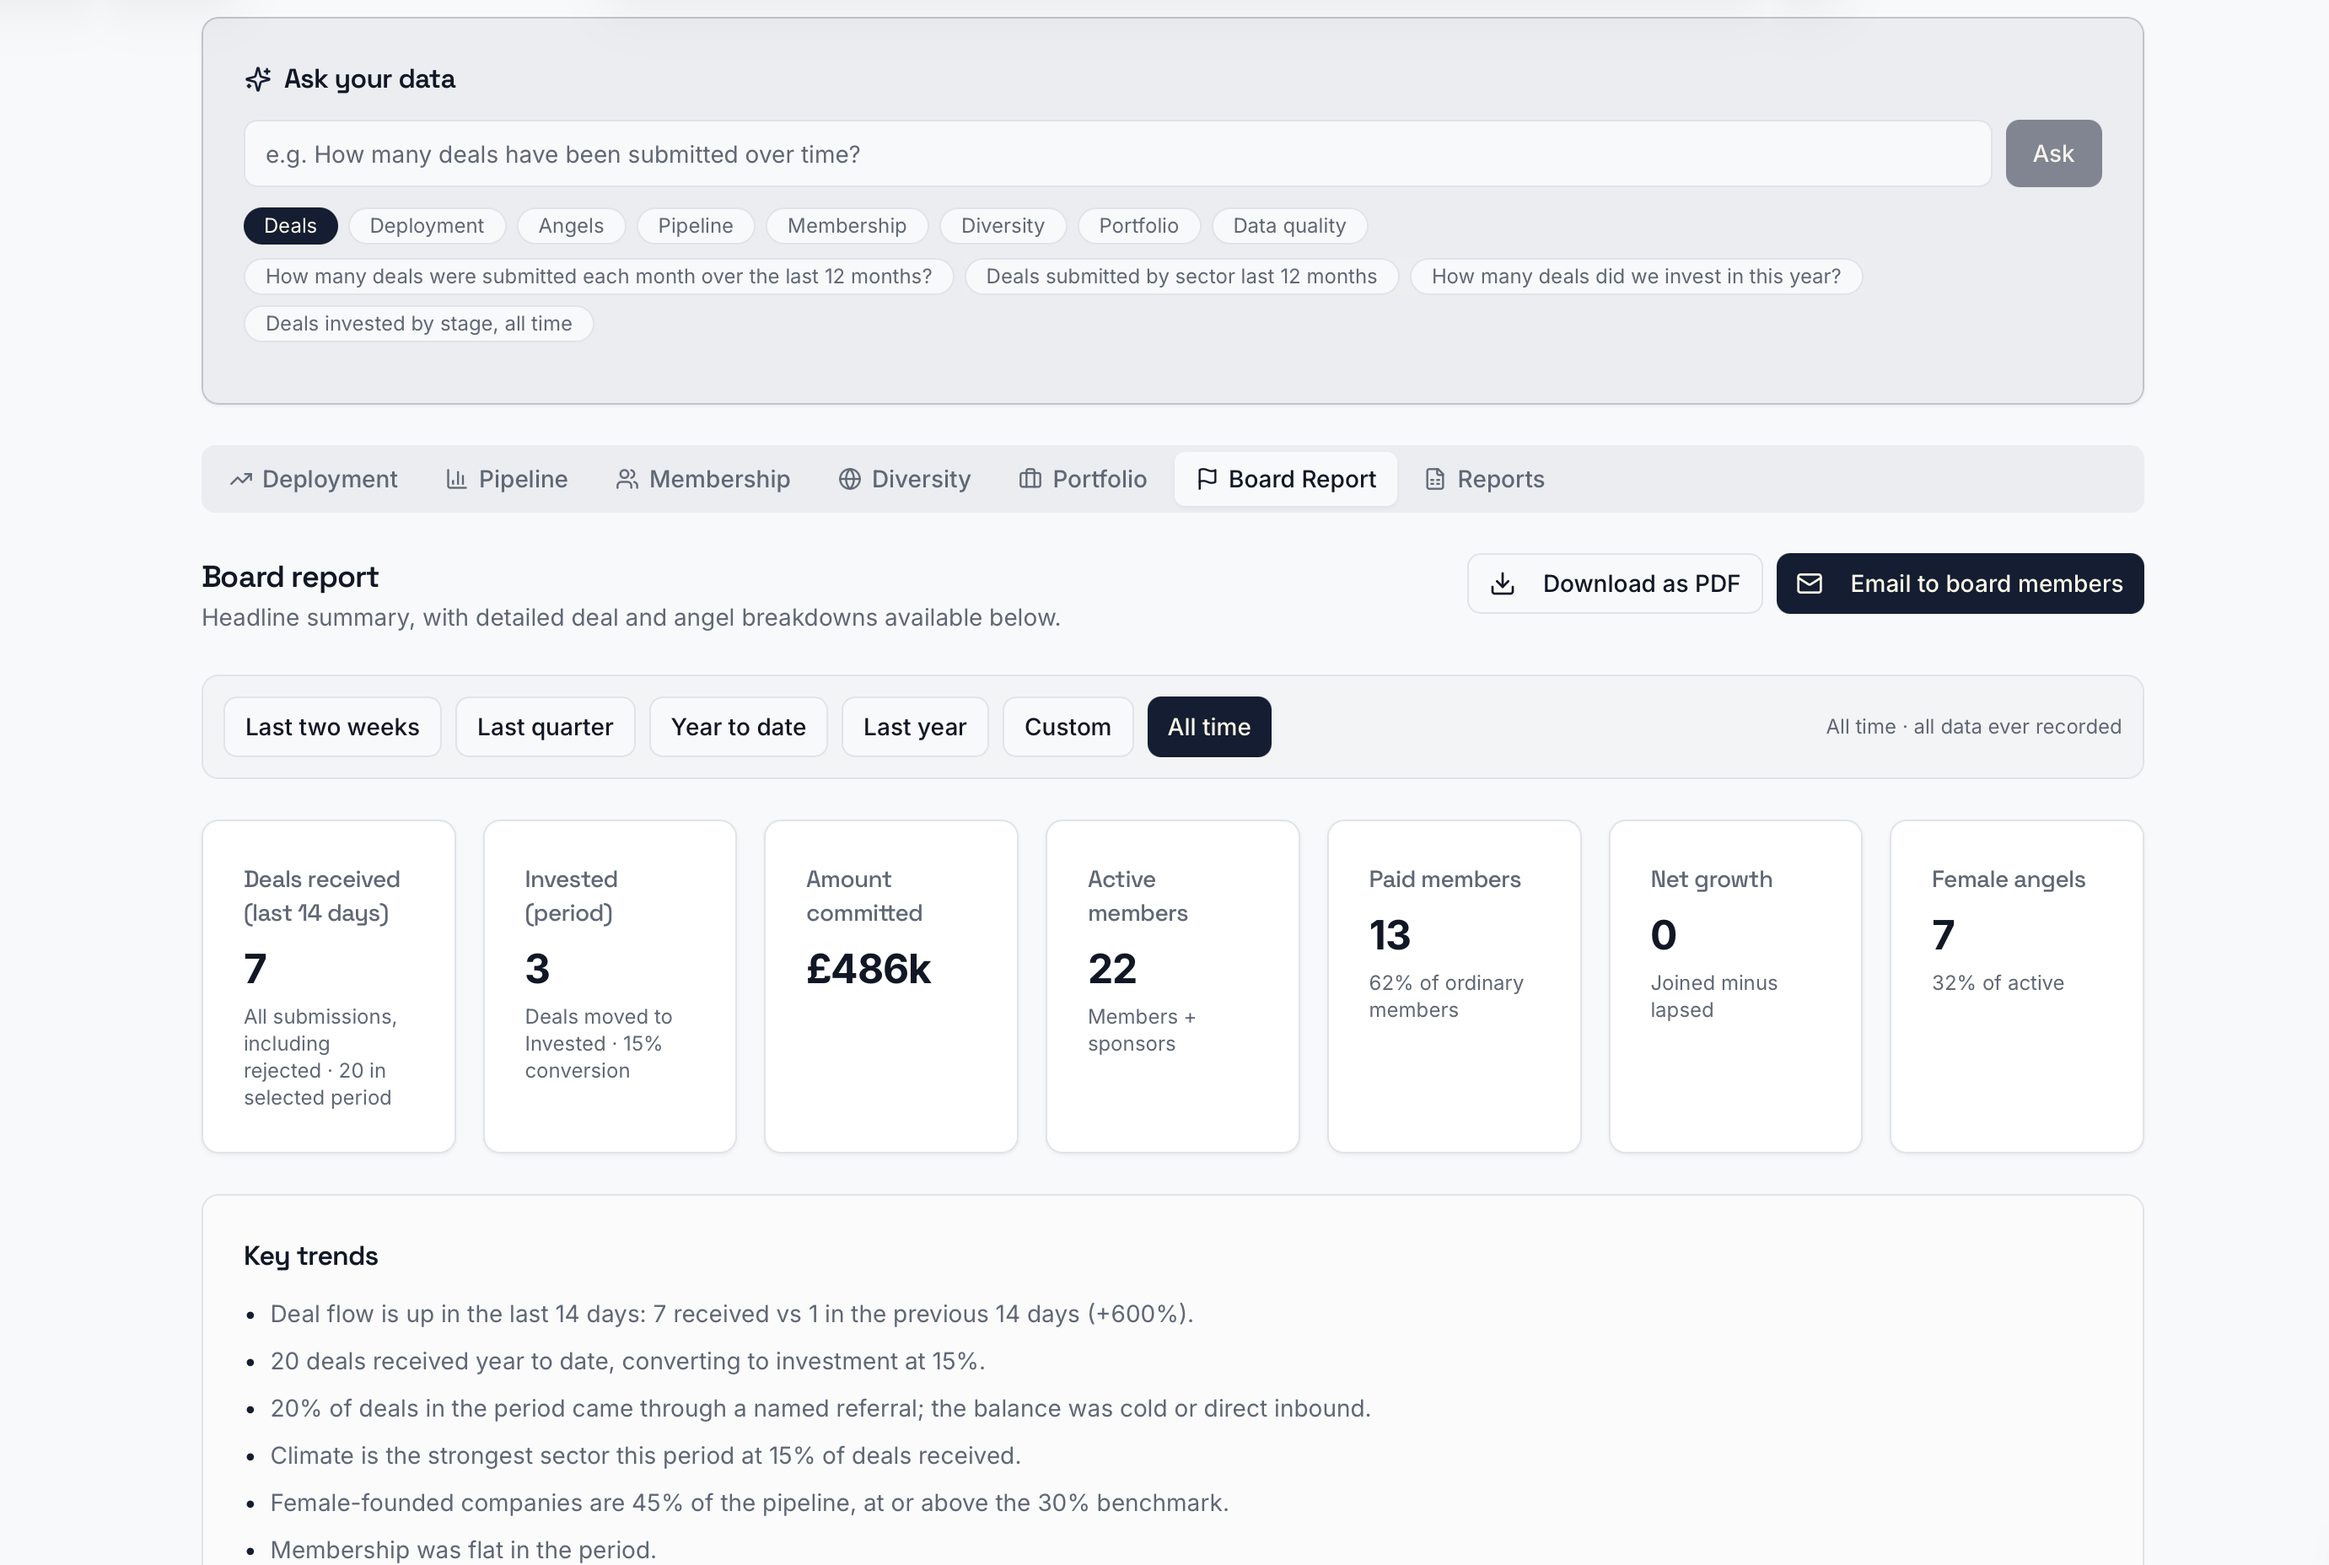
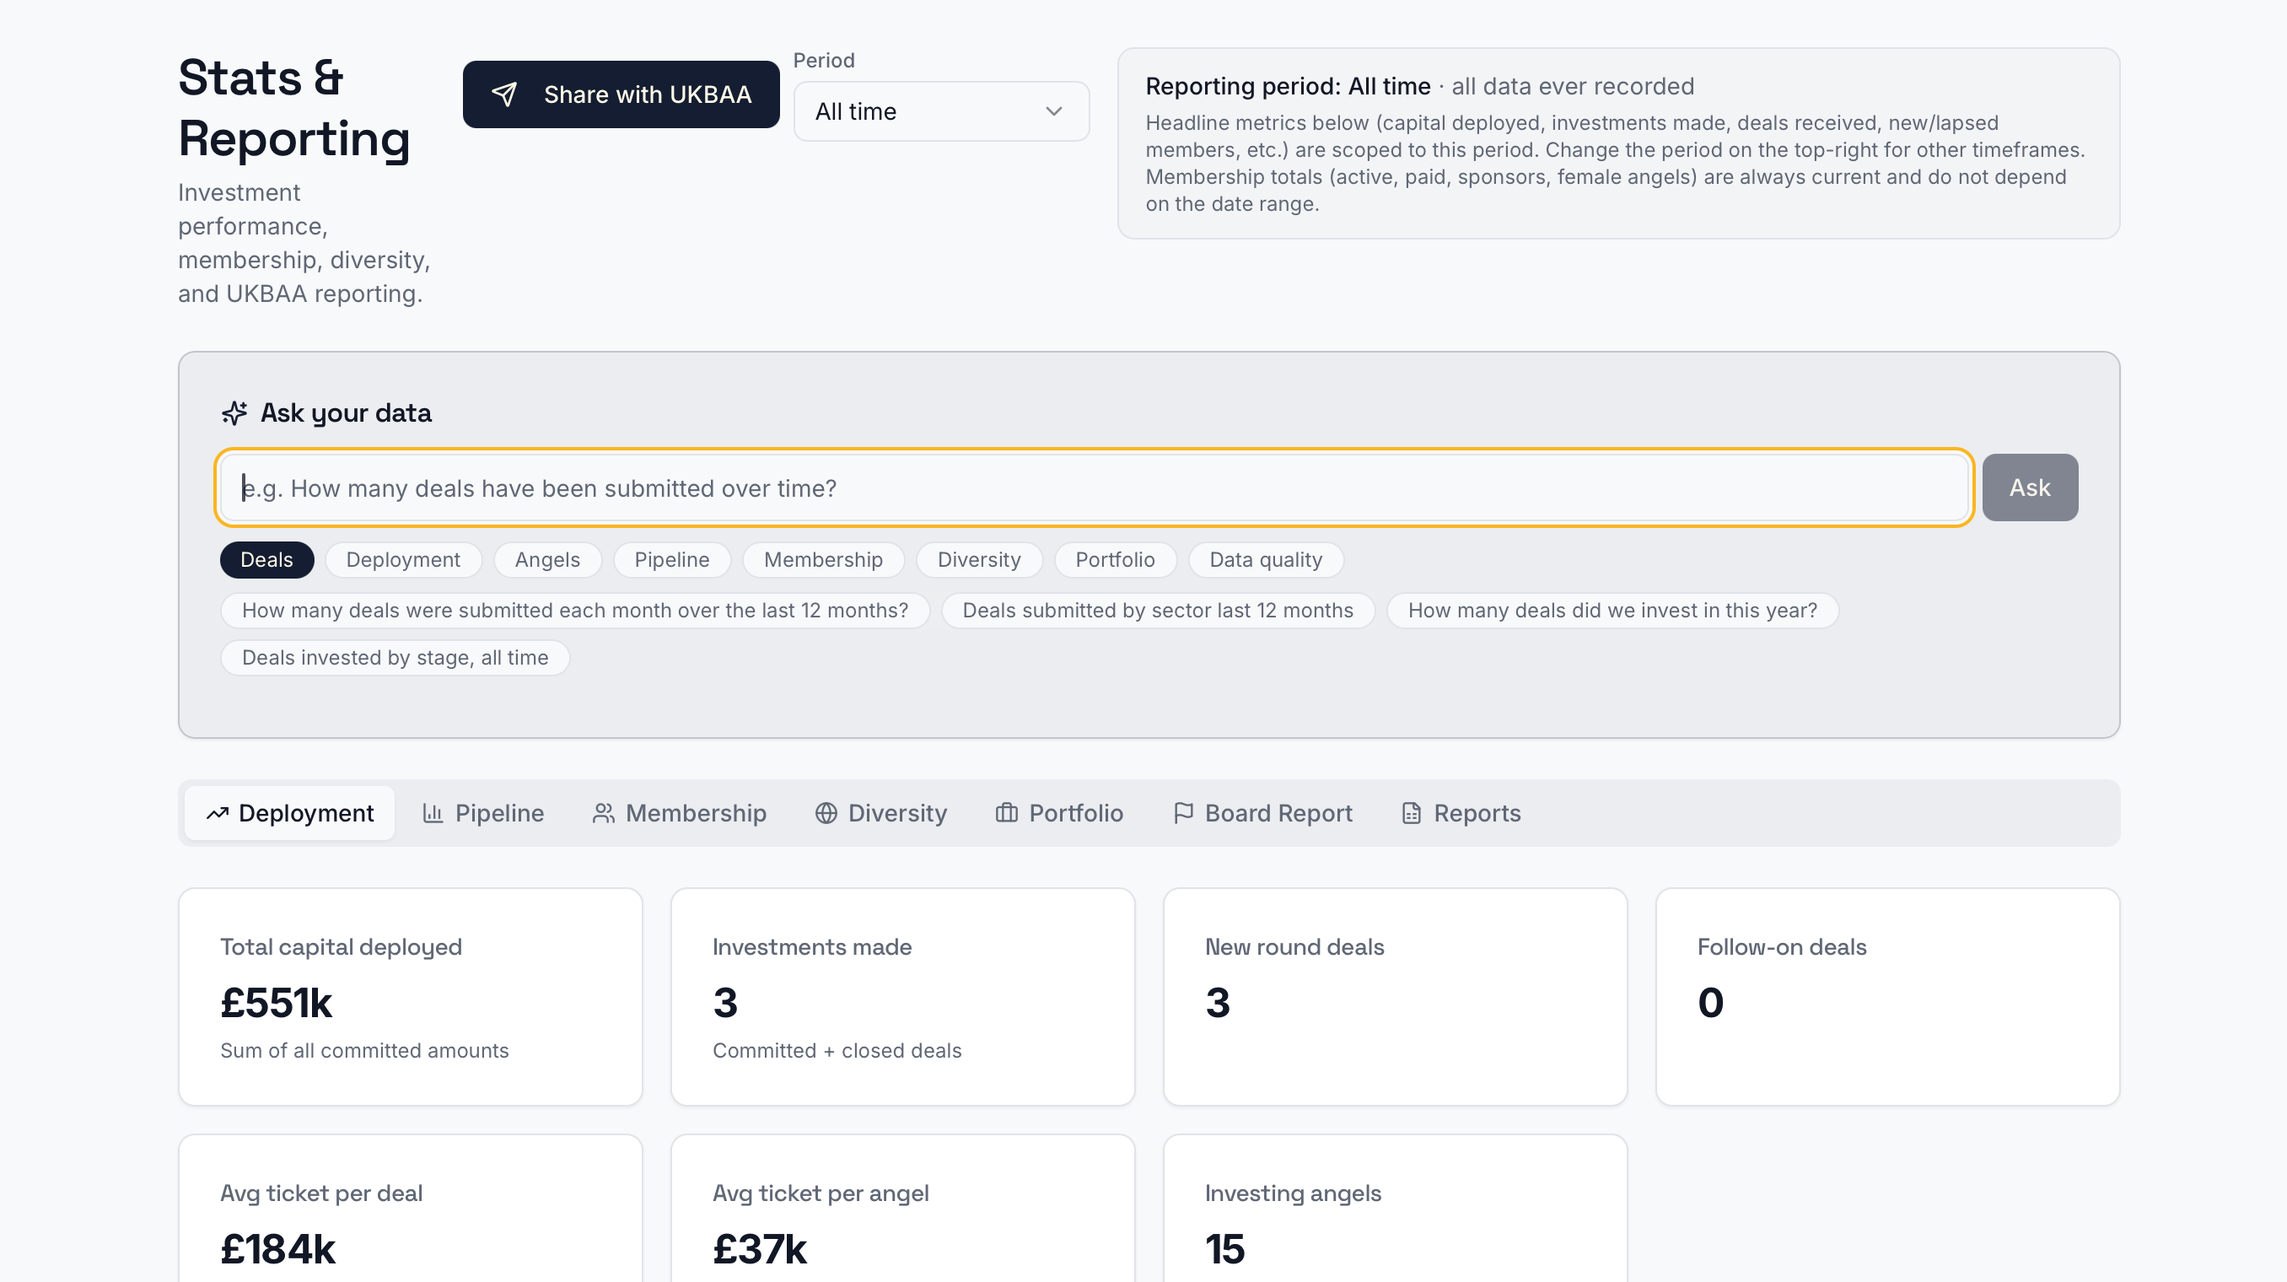
Replace feature box 05 screenshot + update subtitle to 'Reporting and analytics on steroids'

diff --git a/reference.html b/reference.html
@@ -598,7 +598,7 @@ p, .body-text {
       <!-- 05 / Analytics & Reporting -->
       <div class="feature-card">
         <span class="step-label">05 / ANALYTICS & REPORTING</span>
-        <h4>Board-ready reporting. Zero spreadsheets.</h4>
+        <h4>Reporting and analytics on steroids.</h4>
         <p>Get highly detailed deal and angel analytics. Track your full deal-flow funnel and metrics. Automatically generate board reports, Invest in Women code reporting, and British Business Bank metrics.</p>
         <ul class="feature-checklist">
           <li><span class="check">✓</span> Highly detailed deal and angel analytics</li>
